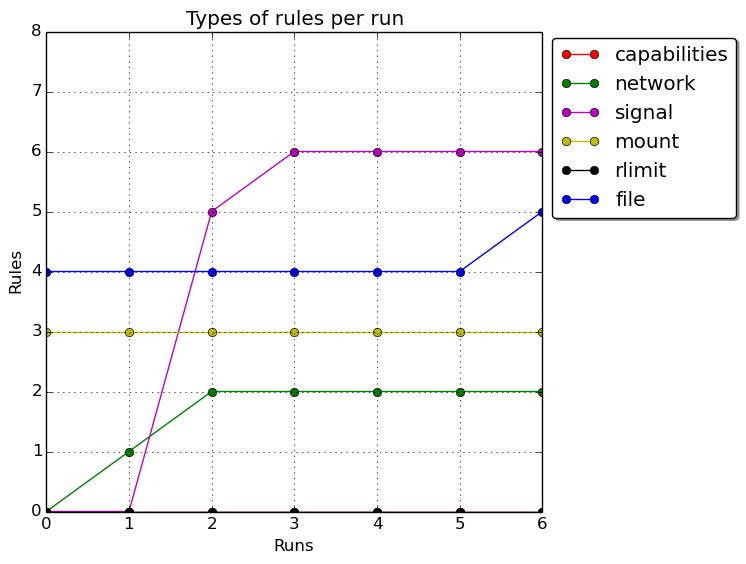
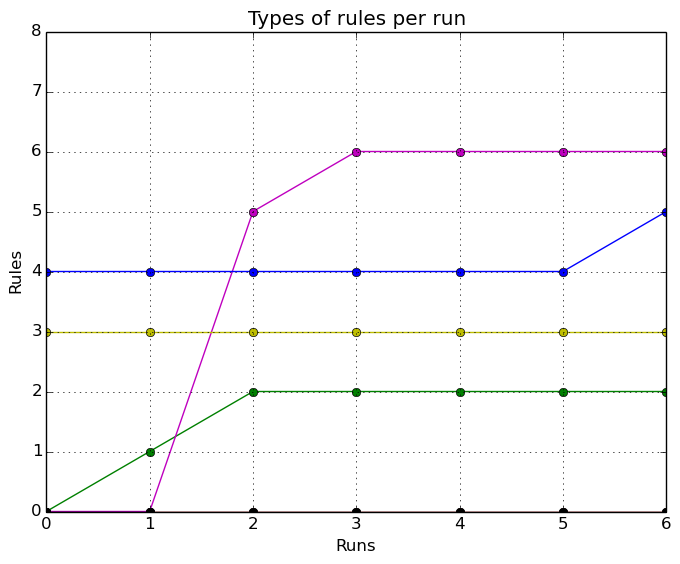
New plots of types without legend

diff --git a/Benchmarks/data-caching/Parser/metrics/plot_type_rules.py b/Benchmarks/data-caching/Parser/metrics/plot_type_rules.py
@@ -102,12 +102,12 @@ ax.plot(x_Axis, file_rules, label="file", color="b", marker='o')
 #ax.legend(loc='upper center', bbox_to_anchor=(0.5, 1.05),
 #                  ncol=3, fancybox=True, shadow=True)
 
-box = ax.get_position()
-ax.set_position([box.x0, box.y0, box.width * 0.8, box.height])
+#box = ax.get_position()
+#ax.set_position([box.x0, box.y0, box.width * 0.8, box.height])
 
 # Put a legend below current axis
-ax.legend(loc='center left', bbox_to_anchor=(1, 0.8),
-                  fancybox=True, shadow=True)
+#ax.legend(loc='center left', bbox_to_anchor=(1, 0.8),
+                  #fancybox=True, shadow=True)
 
 ax.grid()
 

diff --git a/Nextcloud/Parser/metrics/plot_type_rules.py b/Nextcloud/Parser/metrics/plot_type_rules.py
@@ -102,12 +102,12 @@ ax.plot(x_Axis, file_rules, label="file", color="b", marker='o')
 #ax.legend(loc='upper center', bbox_to_anchor=(0.5, 1.05),
 #                  ncol=3, fancybox=True, shadow=True)
 
-box = ax.get_position()
-ax.set_position([box.x0, box.y0, box.width * 0.8, box.height])
+#box = ax.get_position()
+#ax.set_position([box.x0, box.y0, box.width * 0.8, box.height])
 
 # Put a legend below current axis
-ax.legend(loc='center left', bbox_to_anchor=(1, 0.8),
-                  fancybox=True, shadow=True)
+#ax.legend(loc='center left', bbox_to_anchor=(1, 0.8),
+ #                 fancybox=True, shadow=True)
 
 ax.grid()
 
